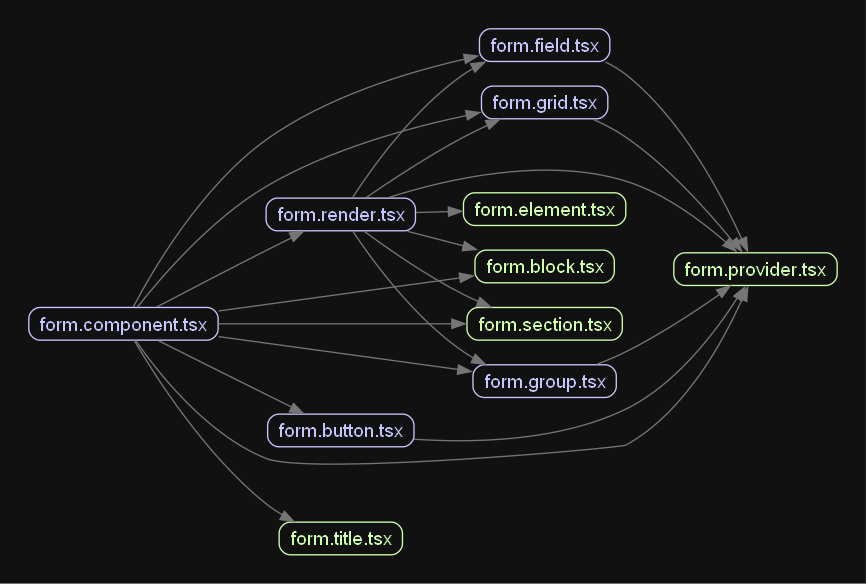
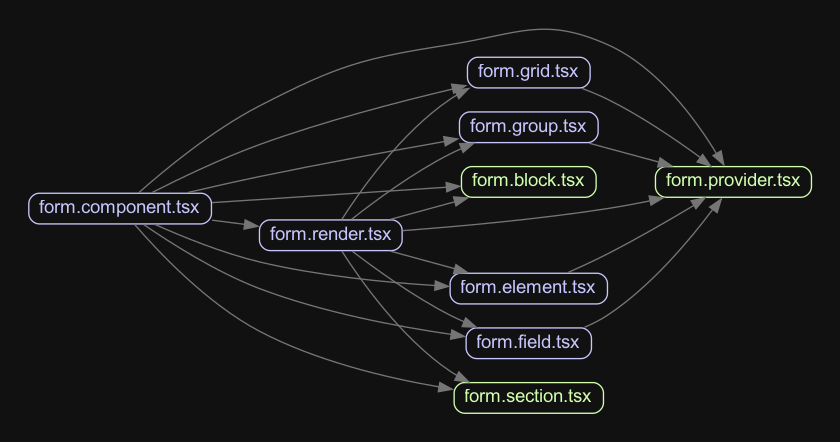
add change

diff --git a/apps/react-app/src/components/form/form.component.tsx b/apps/react-app/src/components/form/form.component.tsx
@@ -8,8 +8,6 @@ import { FormRender } from './form.render';
 import { FormSection } from './form.section';
 import { FormBlock } from './form.block';
 import { FormField } from './form.field';
-import { FormButton } from './form.button';
-import { FormTitle } from './form.title';
 import { FormGrid } from './form.grid';
 import { FormGroup } from './form.group';
 import { FormElement } from './form.element';
@@ -21,14 +19,12 @@ interface FormOptions {
 }
 
 interface FormExtendProps {
-  Title?: typeof FormTitle;
   Section?: typeof FormSection;
   Block?: typeof FormBlock;
   Field?: typeof FormField;
   Element?: typeof FormElement;
   Group?: typeof FormGroup;
   Grid?: typeof FormGrid;
-  Button?: typeof FormButton;
 }
 
 export interface FormProps extends PropsWithChildren {
@@ -46,7 +42,7 @@ export interface FormProps extends PropsWithChildren {
 export function Form({ data = [], onCallback, children }: FormProps & FormExtendProps) {
   const { values, errors, handleClick } = useForm({ onCallback });
   return (
-    <form onSubmit={(e) => e.preventDefault()}>
+    <form onSubmit={e => e.preventDefault()}>
       <FormProvider value={{ data, values, errors, handleClick }}>
         {children || <FormRender />}
       </FormProvider>
@@ -54,11 +50,9 @@ export function Form({ data = [], onCallback, children }: FormProps & FormExtend
   )
 }
 
-Form.Title = FormTitle;
 Form.Section = FormSection;
 Form.Block = FormBlock;
 Form.Field = FormField;
 Form.Element = FormElement;
 Form.Group = FormGroup;
 Form.Grid = FormGrid;
-Form.Button = FormButton;

diff --git a/apps/react-app/src/components/form/form.field.tsx b/apps/react-app/src/components/form/form.field.tsx
@@ -1,19 +1,46 @@
+import { ReactNode, useEffect, useState } from "react";
+
 import { useWrapperContext } from "@/hooks";
+
 import FormContext from "./form.provider";
-import { Field } from "./types";
-import { useEffect } from "react";
+import { CustomFieldProps, Field } from "./types";
 
-interface FieldProps extends Field { }
 
-export function FormField({ name, value = '' }: FieldProps) {
-  const { values } = useWrapperContext(FormContext);
+interface FieldProps extends Field {
+  children?: ((props: CustomFieldProps) => ReactNode) | ReactNode;
+}
+
+export function FormField({ children, ...props }: FieldProps) {
+  const { values, handleClick } = useWrapperContext(FormContext);
+  const {name, value = ''} = props;
+
+  const [val, setVal] = useState(value || '');
+
+  // Check if props.children is a function before calling it
+  const childElement = typeof children === 'function' ? children?.({...props, handleClick}) : children;
+
+  const handleChange = (e:React.ChangeEvent<HTMLInputElement>) => {
+    setVal(e.target.value);
+    values[name] = e.target.value;
+  }
 
   useEffect(() => {
     values[name] = String(value);
     console.log(values);
   }, []);
 
+  useEffect(() => {
+    console.log(values);
+  }, [handleChange]);
+
   return (
-    <div>Field</div>
+    <>
+      {
+        childElement || <div>
+          <label></label>
+          <input value={val} onChange={handleChange} />
+        </div>
+      }
+    </>
   )
 }

diff --git a/apps/react-app/src/components/form/form.element.tsx b/apps/react-app/src/components/form/form.element.tsx
@@ -1,11 +1,18 @@
 import { useWrapperContext } from "@/hooks";
-import { Field } from "./types";
+import { CustomFieldProps, Field } from "./types";
 import FormContext from "./form.provider";
+import { ReactNode } from "react";
 
-interface ElementProps extends Field { }
+interface ElementProps extends Field {
+  children?: ((props: CustomFieldProps) => ReactNode) | ReactNode;
+}
 
-export function FormElement(props: ElementProps) {
+export function FormElement({children, ...props}: ElementProps) {
   const { handleClick } = useWrapperContext(FormContext);
 
-  return (<div onClick={() => handleClick('click')}>Element</div>)
+  // Check if props.children is a function before calling it
+  const childElement = typeof children === 'function' ? children?.({...props, handleClick}) : children;
+
+
+  return (<div onClick={() => handleClick('click')}>{childElement}</div>)
 }

diff --git a/apps/react-app/src/pages/auth/login/login.page.tsx b/apps/react-app/src/pages/auth/login/login.page.tsx
@@ -1,13 +1,17 @@
-import { Form } from "@/components";
+import { CustomFieldProps, Form } from "@/components";
 
 function Login() {
   return <Form>
     <Form.Section>
       <Form.Field type='text' name='username' />
       <Form.Field type='password' name='password' />
-      <Form.Element type='button' name='submit' />
-      <Form.Button name='submit' value='Submit' />
-      <Form.Button name='cancel' value='Cancel' />
+      <Form.Element type='button' name='submit'>
+        {
+          ({handleClick}: CustomFieldProps) => {
+            return <button type='button' onClick={() => handleClick && handleClick('custom')}>Custom Button</button>
+          }
+        }
+      </Form.Element>
     </Form.Section>
   </Form>;
 }

diff --git a/apps/react-app/src/components/form/types/form.type.ts b/apps/react-app/src/components/form/types/form.type.ts
@@ -2,6 +2,10 @@ import { NormalizeField } from "@/types"
 
 export interface Field extends NormalizeField { }
 
+export interface CustomFieldProps extends Field {
+  handleClick?: (name: string) => void
+}
+
 export type ButtonType = {
   submit: string;
   cancel: string;

diff --git a/apps/react-app/src/components/index.ts b/apps/react-app/src/components/index.ts
@@ -1,3 +1,4 @@
 export * from './dragdrop/dragdrop.component';
 export * from './sortable/sortable.component';
 export * from './form/form.component';
+export * from './form/types';
